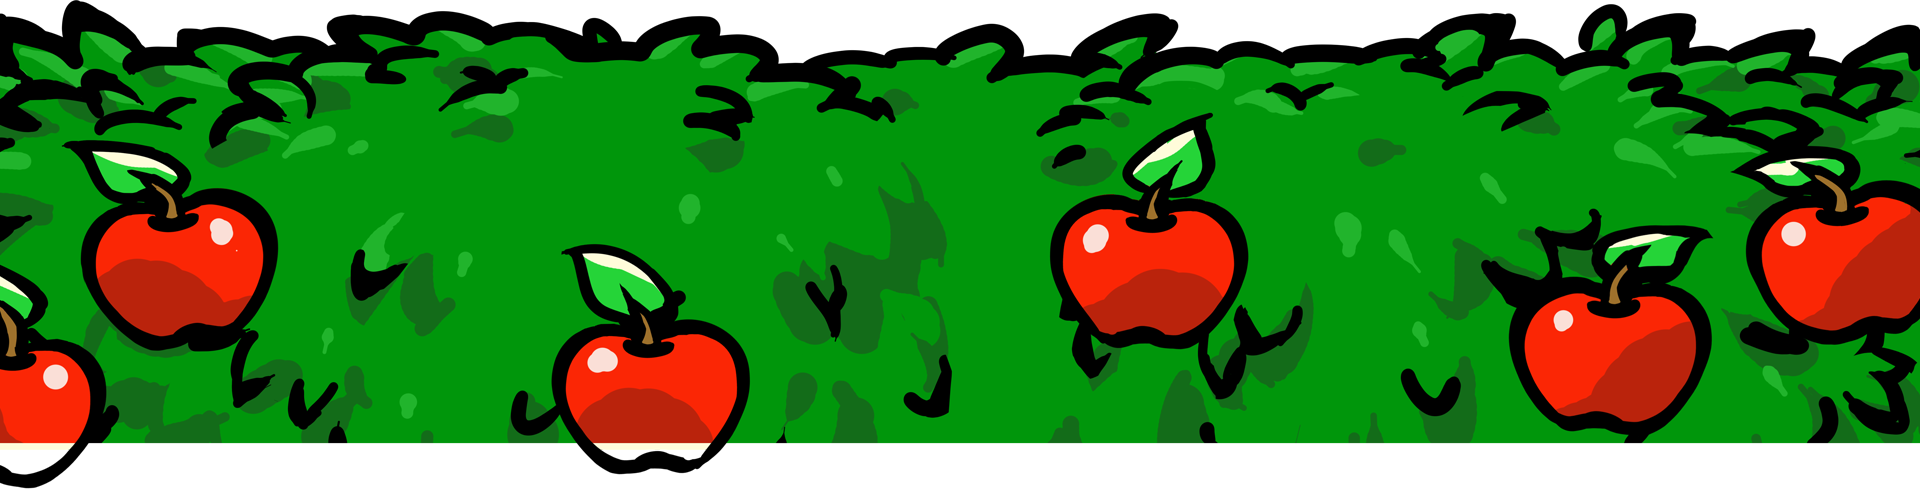
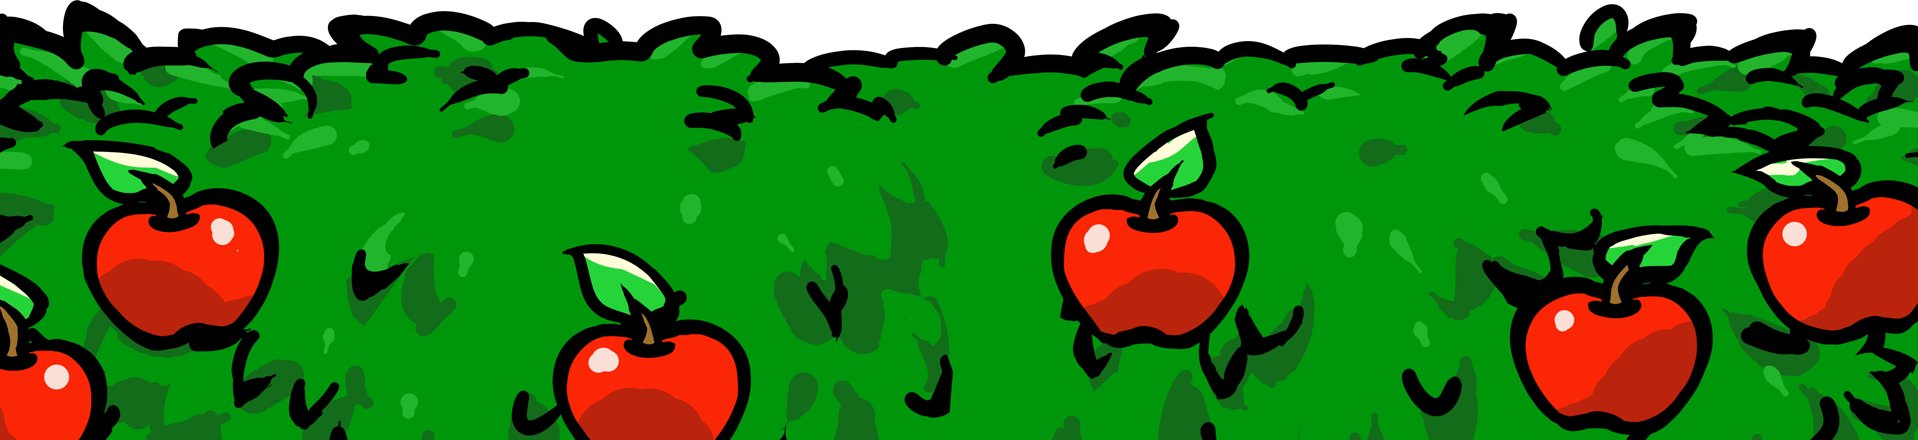
added footer & garden

diff --git a/pages/index.js b/pages/index.js
@@ -5,6 +5,7 @@ import { useWallet, useENS } from "@raidguild/quiver";
 import { formatAddress } from "../utils/methods";
 import { SpinningGlobe } from "../components/SpinningGlobe/SpinningGlobe";
 import { RedNewsMarquee } from "../components/RedNewsMarquee/RedNewsMarquee";
+import {Footer} from '../components/Footer/Footer';
 import styles from "../styles/Home.module.scss";
 
 export default function Home() {
@@ -146,8 +147,7 @@ export default function Home() {
             </Box>
           </Box>
         </Box>
-        <Box
-          name="team"
+        <Box name="team"
           sx={{
             height: `100vh`,
             width: `100vw`,
@@ -185,10 +185,17 @@ export default function Home() {
             </Box>
           </Box>
         </Box>
+        <Box name="mint-garden" className={styles.mintGarden}>
+          <Image src="/images/MintSun.png" alt="The Sun" className={styles.mintSun} />
+          <Image src="/images/clouds.png" alt="Clouds" className={styles.mintClouds} />
+          <Image src="/images/FooterBush.png" alt="An applie bush" className={styles.mintBush} />
+        </Box>
+          <Footer />
       </Box>
     </>
   );
 }
+
 
 
 const TeamMember = (props) => {
@@ -200,3 +207,4 @@ const TeamMember = (props) => {
     </Box>
   )
 }
+

diff --git a/components/Footer/Footer.js b/components/Footer/Footer.js
@@ -1,0 +1,17 @@
+import {Box, Image} from '@chakra-ui/react';
+import styles from './Footer.module.scss';
+
+
+export const Footer = (props) => {
+
+    return (
+        <Box className={styles.footerContainer}>
+            <Image src="/images/Cheebz_Website_Logo.png" alt="CHEEBIEZ" className={styles.footerLogo} />
+            <Box className={styles.socialRow}>
+                <Image src="/images/Social_Twitter.png" alt="Twitter" />
+                <Image src="/images/Social_Instagram.png" alt="Instagram" />
+                <Image src="/images/Social_Discord.png" alt="Discord" />
+            </Box>
+        </Box>
+    )
+}

diff --git a/styles/Home.module.scss b/styles/Home.module.scss
@@ -180,3 +180,28 @@
   font-size: 1.77rem;
   text-transform: lowercase;
 }
+
+.mintGarden {
+  position: relative;
+  z-index: 1;
+  min-height: 1200px;
+}
+
+.mintSun {
+  position: absolute;
+  left: 75%;
+  top: 15%;
+}
+
+.mintClouds {
+  position: absolute;
+  width: 100vw;
+  top: 25%;
+}
+
+.mintBush {
+  position: absolute;
+  bottom: 0;
+  max-width: 100vw;
+  width: 100vw;
+}

diff --git a/components/Footer/Footer.module.scss b/components/Footer/Footer.module.scss
@@ -1,0 +1,22 @@
+.footerContainer {
+    display: flex;
+    align-items: center;
+    justify-content: space-between;
+    background: #002669;
+    padding: 2rem;
+    z-index: 1000;
+}
+
+.footerLogo {
+    max-height: 50px;
+}
+
+.socialRow {
+    display: flex;
+    align-items: center;
+    gap: 1rem;
+    img {
+        max-height: 50px;
+    }
+}
+
